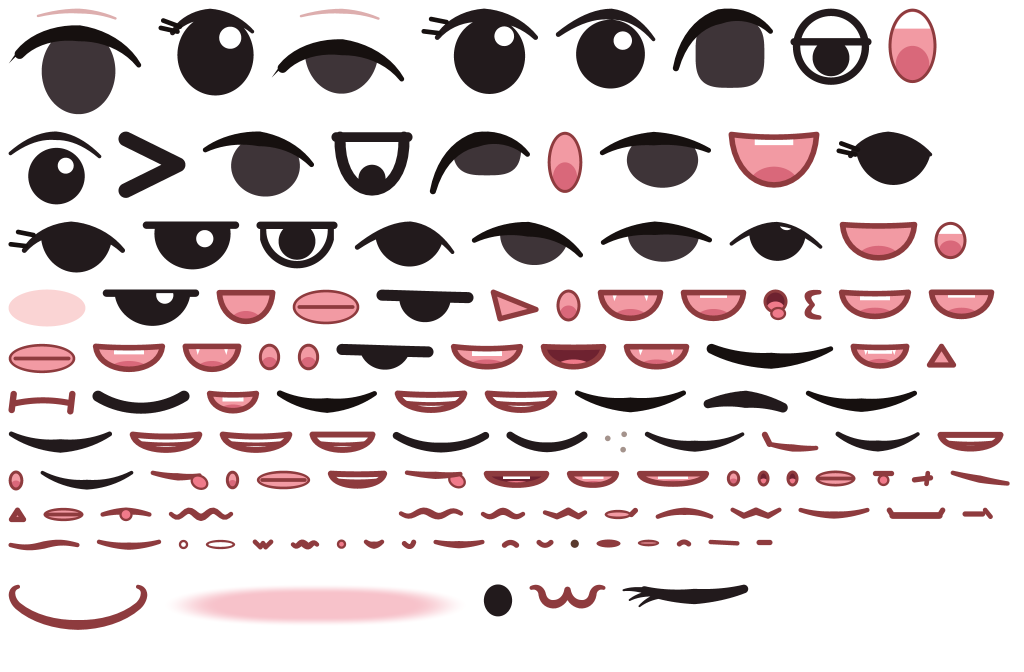
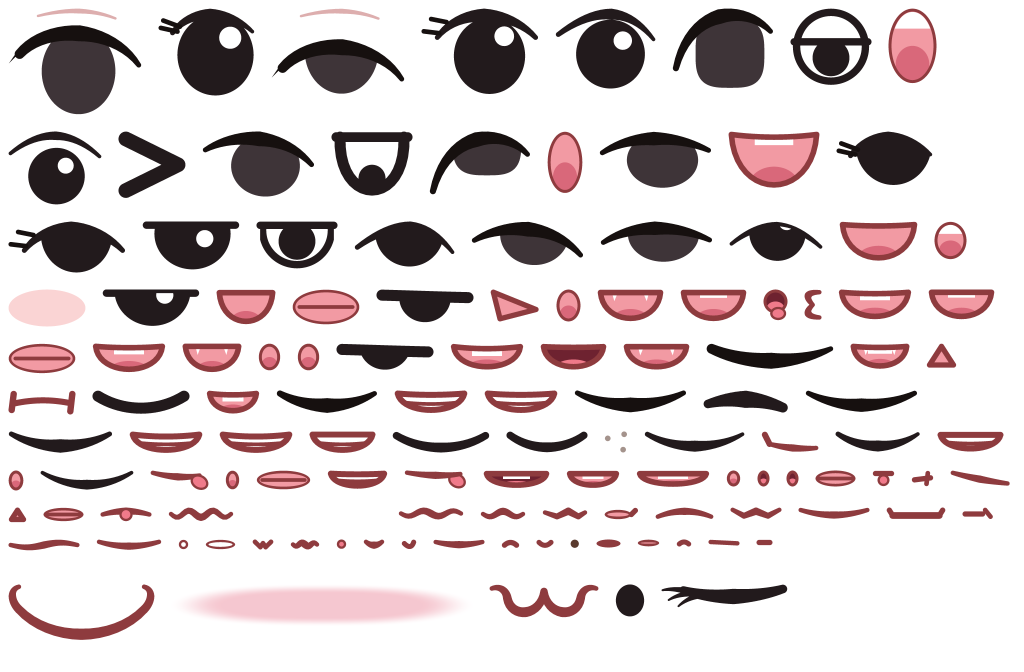
[build] face set 301: larger mouths, deeper blush band; creator sheet beside the references
The first on-rig capture showed the cat mouth and the grin small where the face
turns under at the chin, and the band glowing on dark skin. The mouths are
drawn larger and the band is a deeper rose at lower strength. Earlier atlas
cells are still pixel-identical. specs/evidence/faces-301 has /lab/avatar
?sheet=faces on skins 1, 5 and 10 beside the two references.

Changed region(s): [[0.4688, 0.875, 0.7812, 0.9375], [0.0, 0.875, 0.1562, 0.9688]]

diff --git a/art/characters/v7/face_set_301.py b/art/characters/v7/face_set_301.py
@@ -32,7 +32,7 @@ def parts(g):
     anchors and kinds (K, AUTH, BOX per layer kind) are the new entries build_face.py adds to its tables."""
     P, P0, bez, taper, hex_srgb = g["P"], g["P0"], g["bez"], g["taper"], g["hex_srgb"]
     C_DOLL, C_LINE = g["C_DOLL"], g["C_LINE"]
-    C_ROSE = hex_srgb("#F0909F")     # the band: a little pinker than the cheek blush (#F4A0A0), still matte paint
+    C_ROSE = hex_srgb("#E8798E")     # the band: a deeper rose than the cheek blush (#F4A0A0), so it never glows on dark skin
 
     # ------------------------------------------------------------ eyes (the canvas-left eye; +dx is outward)
     def sleepy_lash(L):
@@ -50,15 +50,17 @@ def parts(g):
         c = bez([P0(*p) for p in pts], 16)
         L.paint(L.stroke(c, taper(len(c), r0, r1, r2)), C_LINE)
 
-    def cat_w(L):
+    # Both are drawn larger than the resting picks: the mouth sits where the face turns under toward the chin, so
+    # the camera sees it smaller than drawn (see the talk cells in build_face.py).
+    def cat_w(L, k=1.45):
         for s in (-1, 1):
-            line(L, [(0.0, -0.01), (s * 0.003, 0.016), (s * 0.034, 0.019), (s * 0.038, -0.003)], 0.0048, 0.0064, 0.0056)
-            line(L, [(s * 0.038, -0.003), (s * 0.039, -0.011), (s * 0.046, -0.016), (s * 0.054, -0.013)], 0.0056, 0.0046, 0.003)
+            line(L, [(0.0, -0.01 * k), (s * 0.003 * k, 0.016 * k), (s * 0.034 * k, 0.019 * k), (s * 0.038 * k, -0.003 * k)], 0.0055, 0.0075, 0.0065)
+            line(L, [(s * 0.038 * k, -0.003 * k), (s * 0.039 * k, -0.011 * k), (s * 0.046 * k, -0.016 * k), (s * 0.054 * k, -0.013 * k)], 0.0065, 0.0052, 0.0034)
 
     def grin_curl(L):
-        line(L, [(-0.09, -0.012), (-0.045, 0.026), (0.045, 0.026), (0.09, -0.012)], 0.0056, 0.0074, 0.0056)
+        line(L, [(-0.094, -0.016), (-0.047, 0.034), (0.047, 0.034), (0.094, -0.016)], 0.0064, 0.0085, 0.0064)
         for s in (-1, 1):
-            line(L, [(s * 0.09, -0.012), (s * 0.101, -0.022), (s * 0.103, -0.038), (s * 0.09, -0.041)], 0.0056, 0.005, 0.003)
+            line(L, [(s * 0.094, -0.016), (s * 0.106, -0.028), (s * 0.108, -0.046), (s * 0.094, -0.05)], 0.0064, 0.0056, 0.0034)
 
     # ------------------------------------------------------------ the blush band (one cell on the centre line)
     blush_anchor = (0.5, 0.72)       # between the eye line (0.614) and the cheek blush (0.789)
@@ -67,7 +69,7 @@ def parts(g):
         du, dv = (L.U - blush_anchor[0]) / 0.3, (L.V - blush_anchor[1]) / 0.042
         r = (np.abs(du) ** 2.6 + np.abs(dv) ** 2.0) ** (1 / 2.0)
         soft = np.clip((1.0 - r) / 0.45, 0.0, 1.0)
-        L.paint(soft * soft * (3 - 2 * soft), C_ROSE, 0.55)          # smoothstep edge, no hard line anywhere
+        L.paint(soft * soft * (3 - 2 * soft), C_ROSE, 0.42)          # smoothstep edge, no hard line anywhere
 
     eyes = {"sleepy_lash": sleepy_lash, "dot": dot}
     mouths = {"cat_w": cat_w, "grin_curl": grin_curl}
